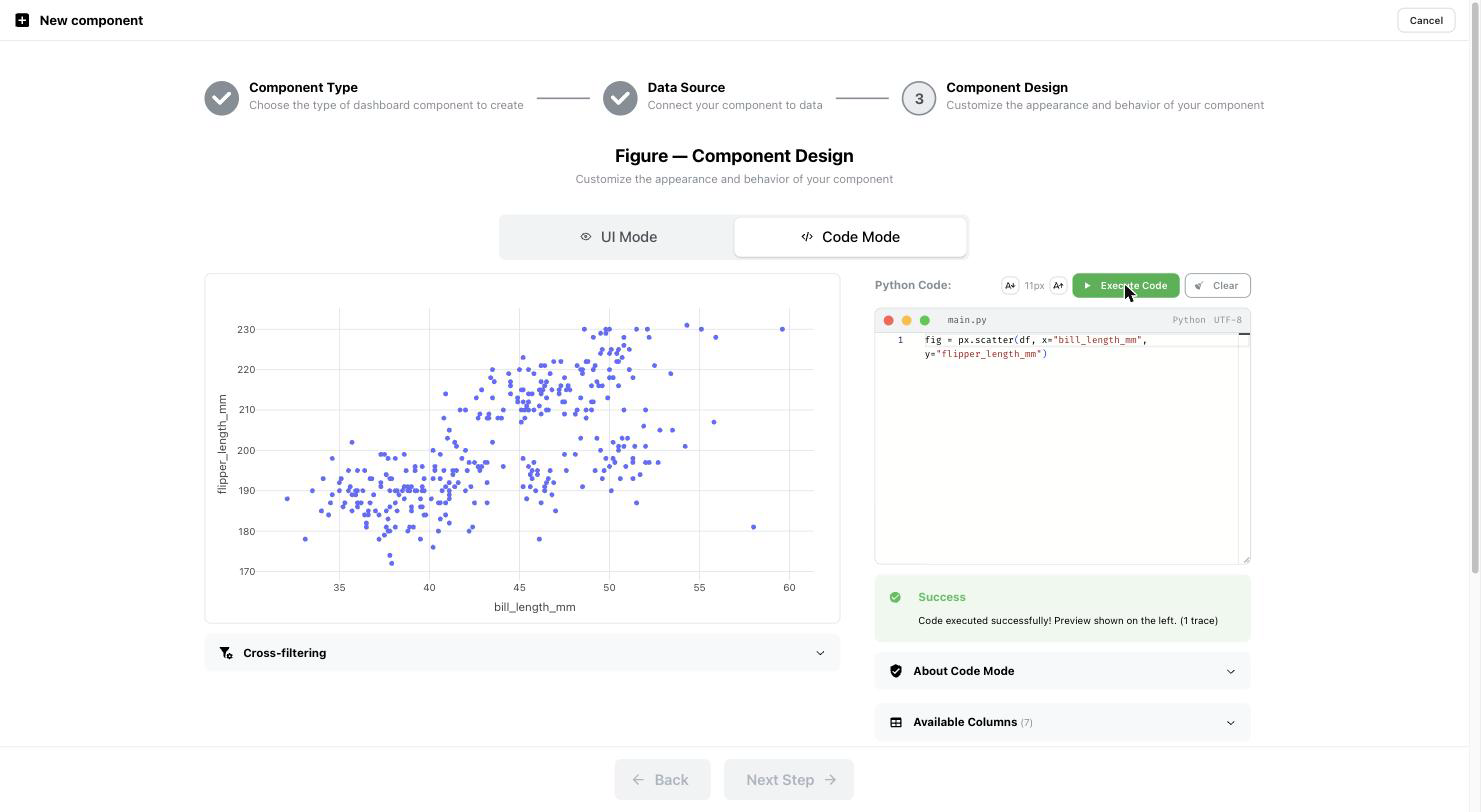
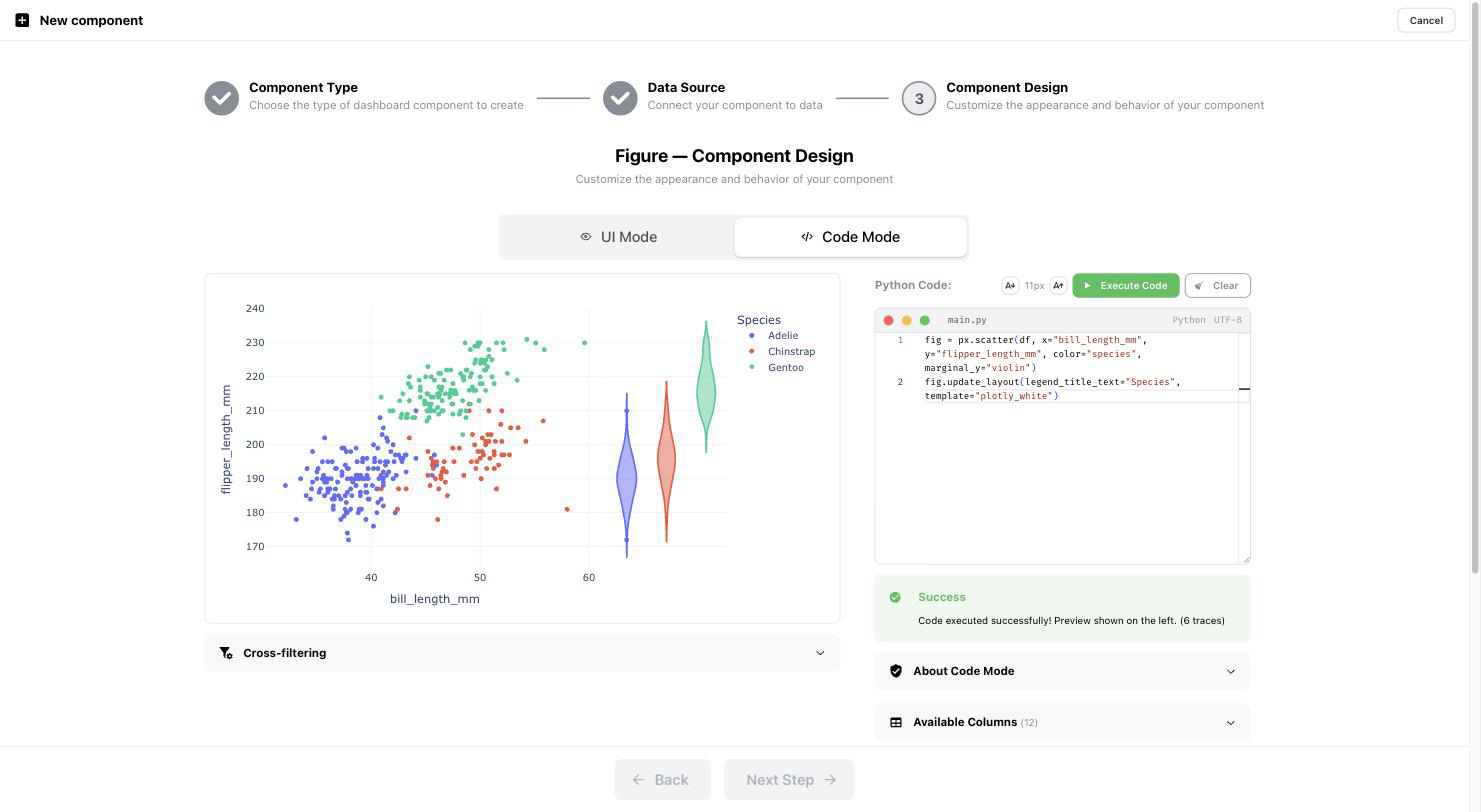
docs(guides): show configured figures in the design examples
The scatter example now colours by species off the joined data collection,
and the code-mode example goes past what the form exposes — marginal
violins plus a fig.update_layout() override — so both screenshots carry a
real rendering instead of a bare form.

Drop the empty-canvas figure_design.png: step 3 now leads with the
configured scatter, which makes the blank preview redundant.

Correct two claims about the wizard while here. Picking a component type
advances on the card click, no Next Step needed, and step 2 is never
skipped for a single data collection — the first compatible one is
pre-selected. Only Text components skip it, since they read no data.

diff --git a/docs/usage/guides/dashboard_creation.md b/docs/usage/guides/dashboard_creation.md
@@ -28,8 +28,7 @@
 </div>
 
 1. Open a dashboard, click **Edit**, then **Add component**.
-2. Pick a component type: **Figure**, **Card**, **Interactive**, **Table**, **MultiQC**, **Image**, **Map**, **Text** or **Advanced viz**.
-3. Click **Next Step**.
+2. Pick a component type: **Figure**, **Card**, **Interactive**, **Table**, **MultiQC**, **Image**, **Map**, **Text** or **Advanced viz**. Clicking a card takes you straight to the next step.
 
 ### <span style="color: #6495ED;">:material-numeric-2-circle:</span> Step 2: Data Selection
 
@@ -43,13 +42,13 @@
 2. Check **Data Collection Information** — type, row and column counts, Delta table version — and the column preview underneath.
 3. Click **Next Step**.
 
-    With a single data collection available, this step is filled in for you and the builder goes straight to the design step.
+    The first compatible data collection is pre-selected, so you only touch the dropdowns when you need another one — here `joined_penguins_complete`, the join of `physical_features` and `demographic_data`. **Text** components skip this step entirely, since they read no data collection.
 
 ### <span style="color: #F68B33;">:material-numeric-3-circle:</span> Step 3: Customize Your Component
 
 <div style="border: 1px solid grey; width: 602px; padding: 1px;">
-    <a href="../../../images/guides/dashboard_creation/design/figure_design.png" target="_blank">
-        <img src="../../../images/guides/dashboard_creation/design/figure_design.png" width="600">
+    <a href="../../../images/guides/dashboard_creation/design/figure_design_scatter.png" target="_blank">
+        <img src="../../../images/guides/dashboard_creation/design/figure_design_scatter.png" width="600">
     </a>
 </div>
 
@@ -192,15 +191,9 @@ fig = px.scatter(df_modified, x="col_x", y="col_y", color="category")
 
 #### <span style="color: #8BC34A;">:material-palette:</span> Component design Examples:
 
-##### <span style="color: #F68B33;">:material-chart-line:</span> Figure design - visualization selection
-
-<div style="border: 1px solid grey; width: 602px; padding: 1px;">
-    <a href="../../../images/guides/dashboard_creation/design/figure_design.png" target="_blank">
-        <img src="../../../images/guides/dashboard_creation/design/figure_design.png" width="600">
-    </a>
-</div>
-
 ##### <span style="color: #6495ED;">:material-scatter-plot:</span> Figure design - scatter plot - UI mode
+
+`bill_length_mm` against `flipper_length_mm`, coloured by `species`. The preview redraws on every change.
 
 <div style="border: 1px solid grey; width: 602px; padding: 1px;">
     <a href="../../../images/guides/dashboard_creation/design/figure_design_scatter.png" target="_blank">
@@ -209,6 +202,8 @@ fig = px.scatter(df_modified, x="col_x", y="col_y", color="category")
 </div>
 
 ##### <span style="color: #7A5DC7;">:material-code-braces:</span> Figure design - scatter plot - code mode
+
+Switching to Code Mode carries the UI settings over as a `px.scatter` call, which you can then take past what the form exposes — here marginal violins and a `fig.update_layout()` override.
 
 <div style="border: 1px solid grey; width: 602px; padding: 1px;">
     <a href="../../../images/guides/dashboard_creation/design/figure_design_code.png" target="_blank">
